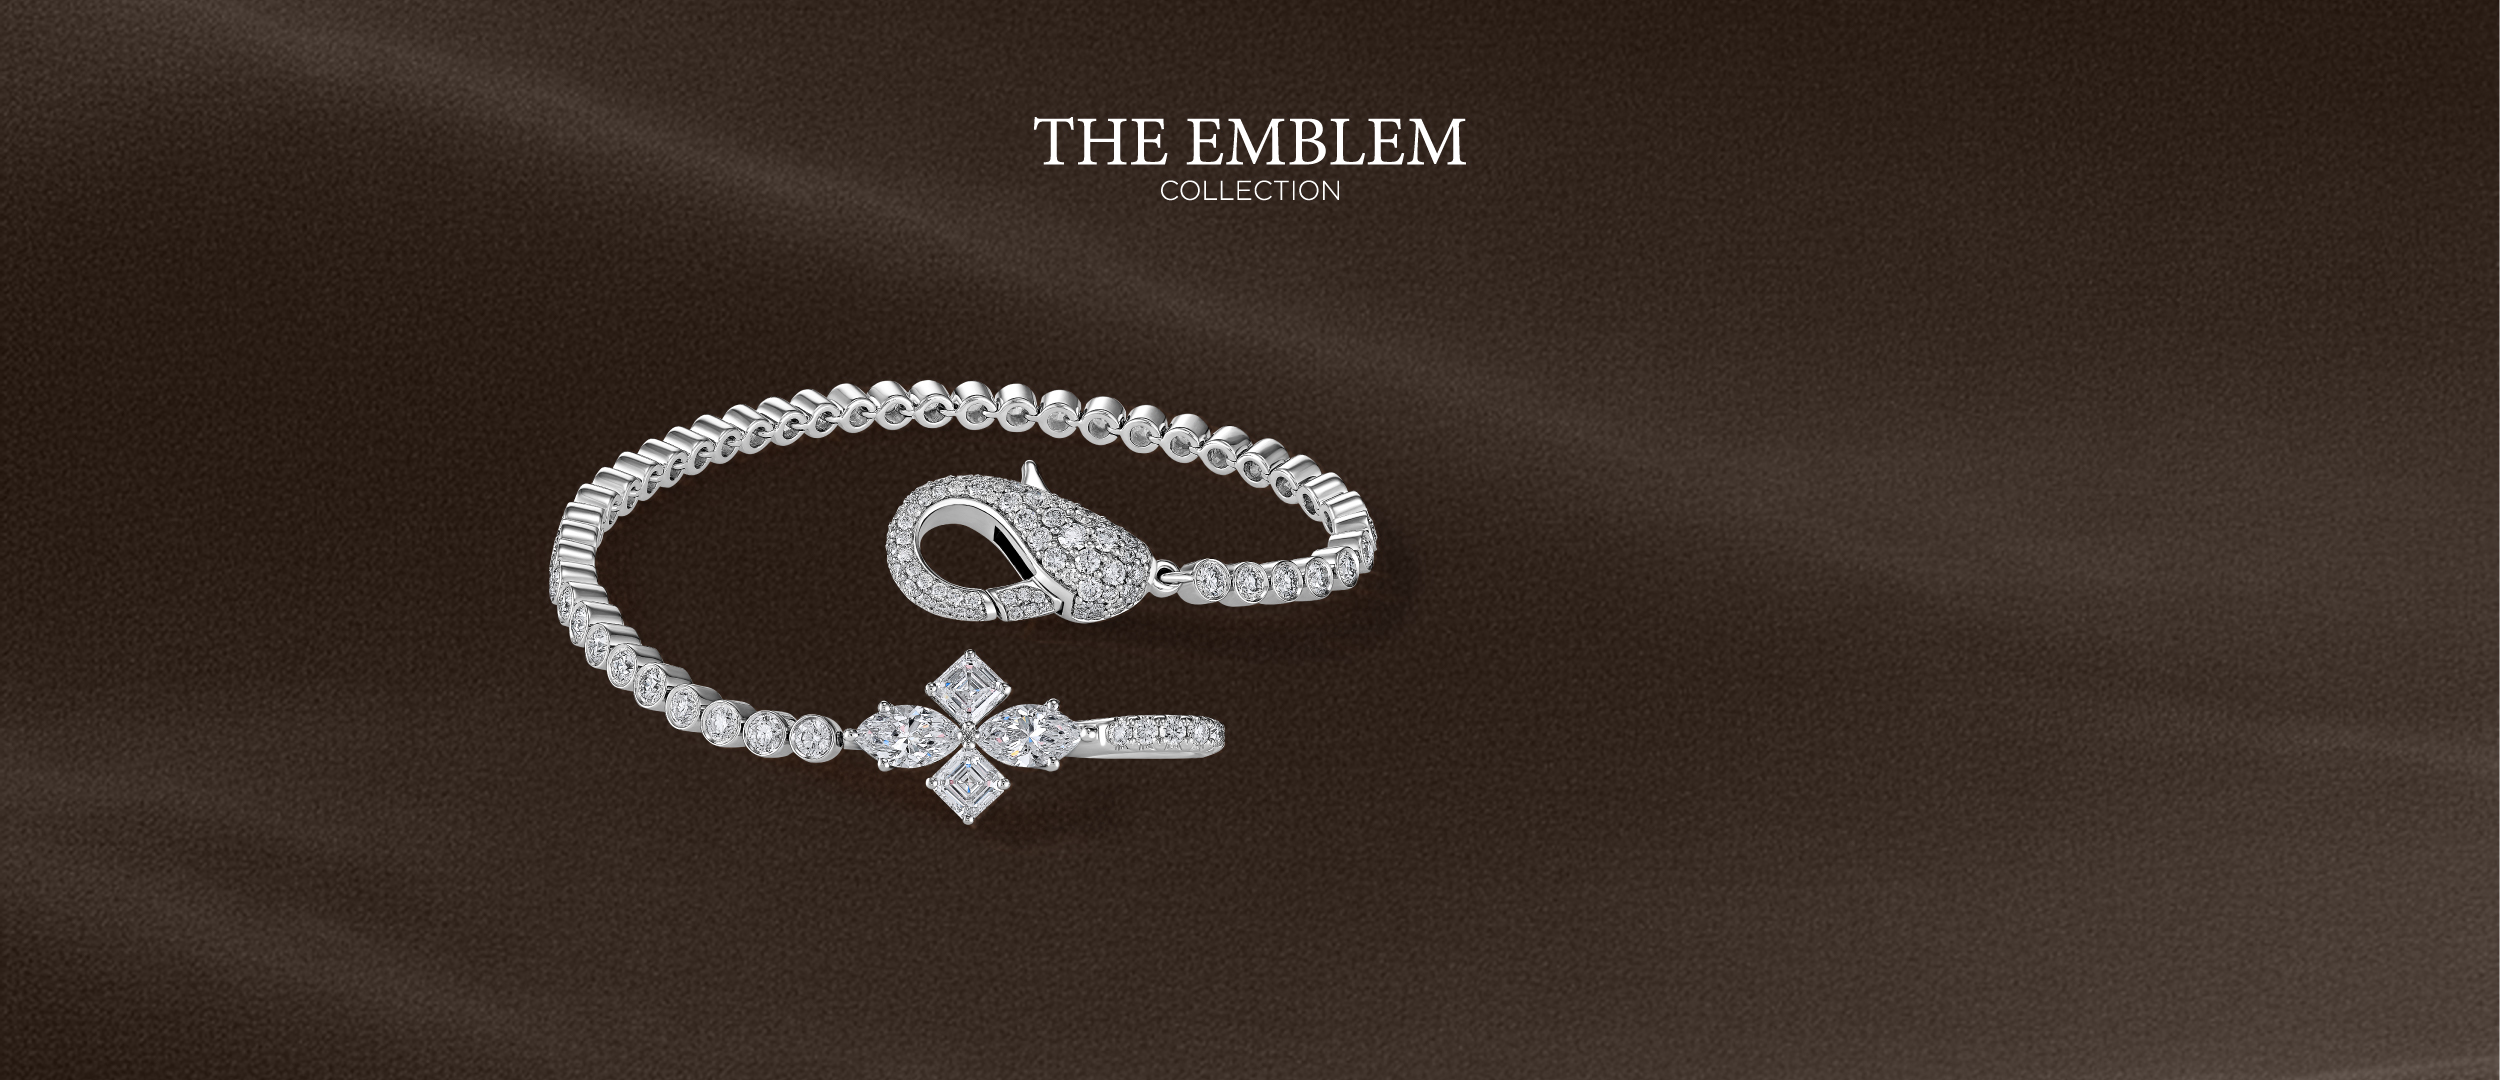
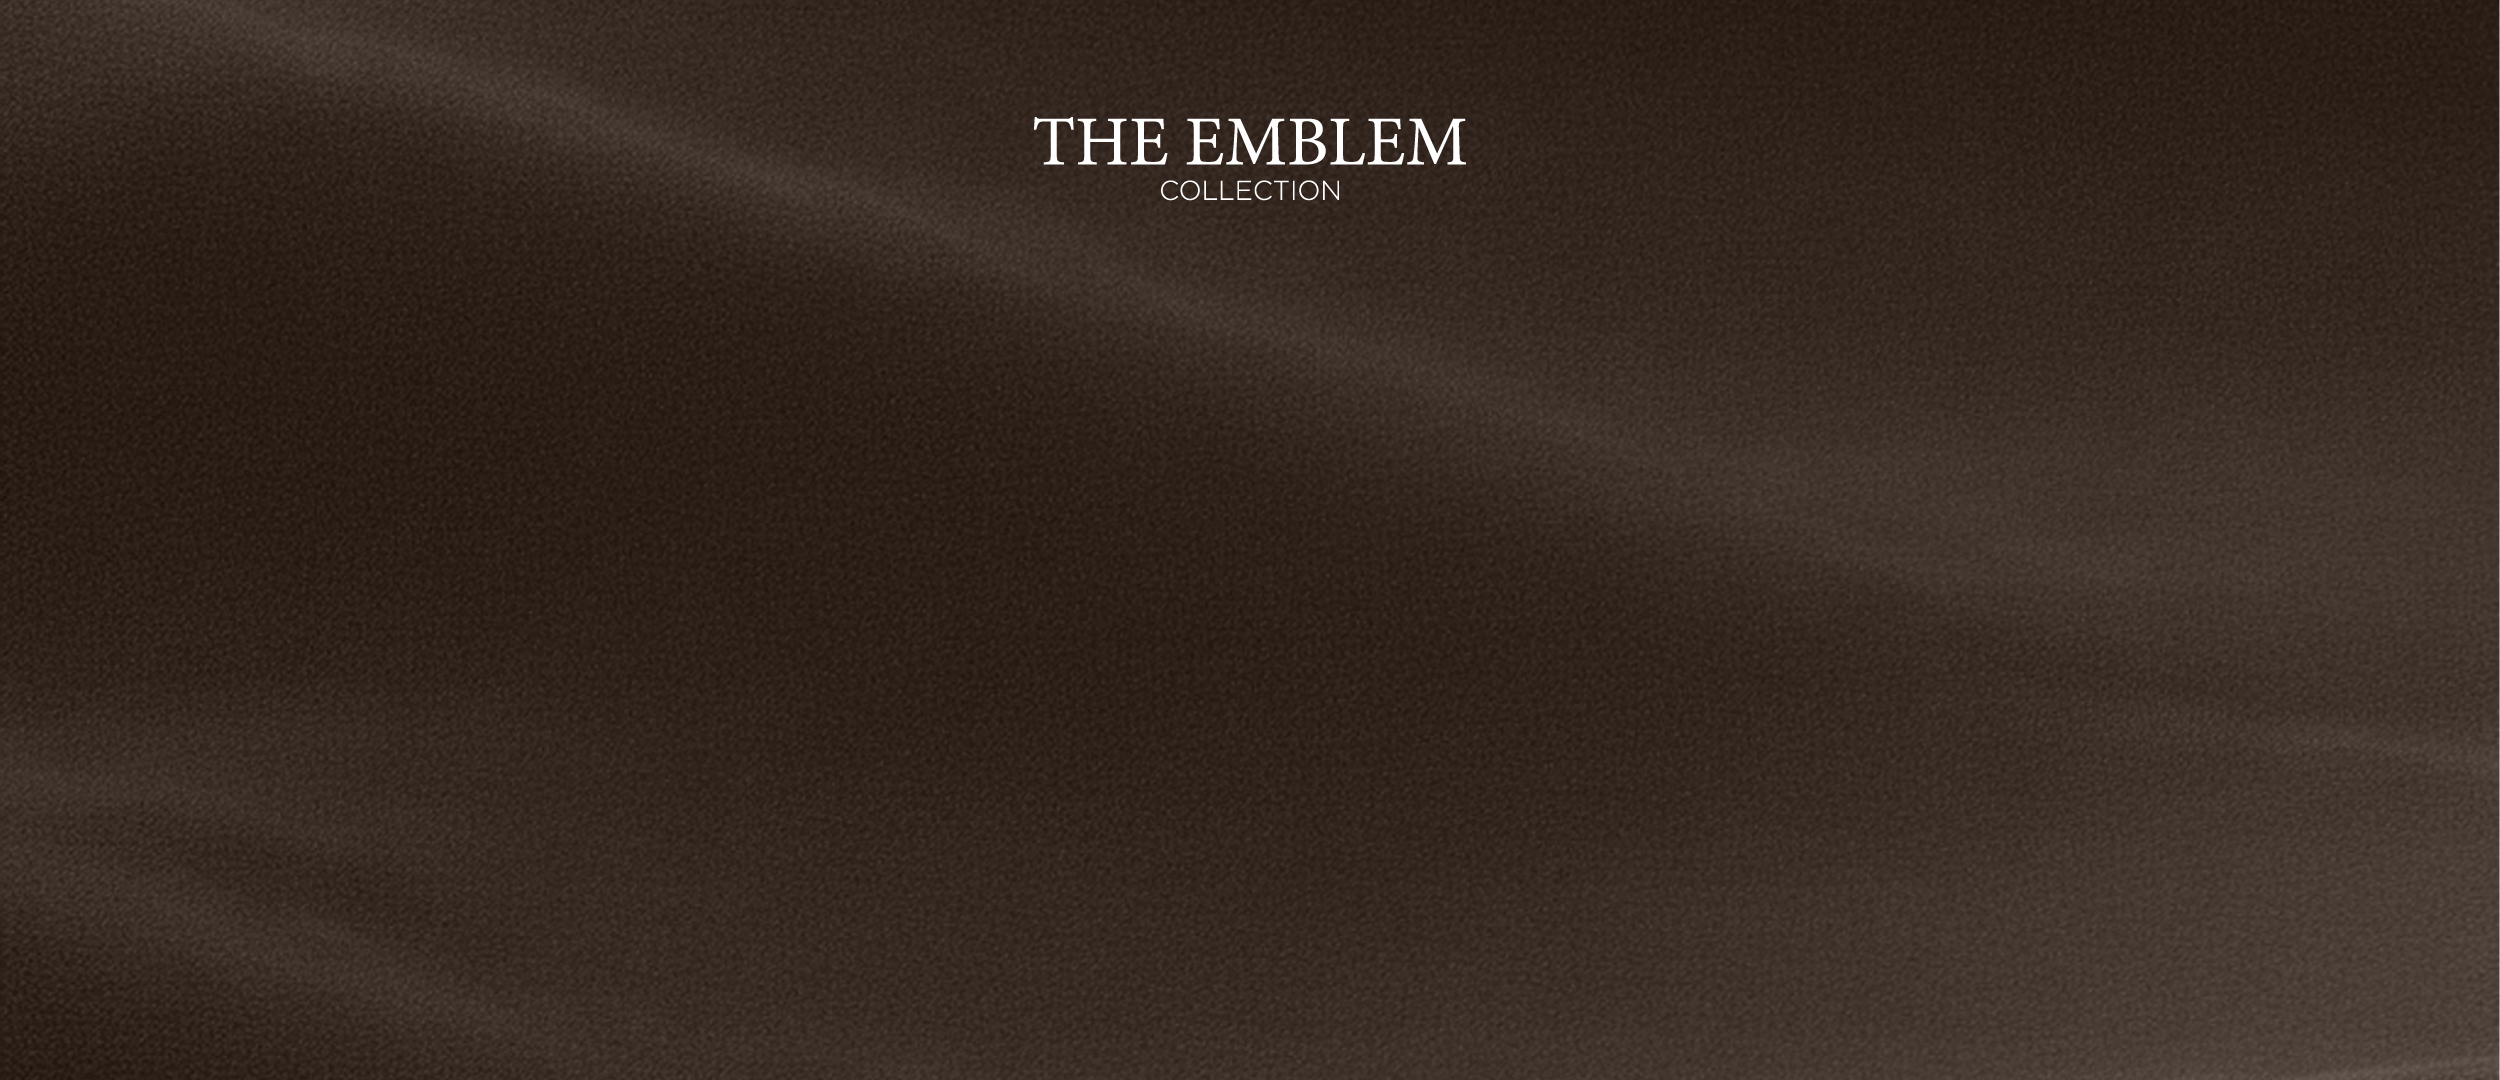
new layout for page 3

Changed region(s): [[0.2184, 0.3361, 0.5616, 0.7639]]

diff --git a/index.html b/index.html
@@ -71,6 +71,25 @@
           alt=""
         />
       </picture>
+      <div class="product-slider" id="productSlider3">
+        <div class="slider-track">
+          <img
+            src="./assets/images/product/product-3-rosegold.png"
+            class="slide active"
+            alt="Product view 1"
+          />
+          <img
+            src="./assets/images/product/product-3-silver.png"
+            class="slide"
+            alt="Product view 2"
+          />
+        </div>
+        <div class="slider-dots">
+          <button class="dot active" data-index="0" aria-label="Slide 1"></button>
+          <button class="dot" data-index="1" aria-label="Slide 2"></button>
+        </div>
+      </div>
+
       <div class="form-container right">
         <picture class="form-image form-image-1 mt-3 mb-0 mb-md-1">
           <source
@@ -267,6 +286,76 @@
 
         form1.addEventListener("submit", handleFormSubmit);
         form2.addEventListener("submit", handleFormSubmit);
+
+        // --- Product Slider (Section 3) ---
+        const sliderEl = document.getElementById("productSlider3");
+        if (sliderEl) {
+          const slides = sliderEl.querySelectorAll(".slide");
+          const dots = sliderEl.querySelectorAll(".dot");
+          let current = 0;
+          let autoTimer = null;
+          const AUTO_DELAY = 4000;
+
+          function goToSlide(index) {
+            slides[current].classList.remove("active");
+            dots[current].classList.remove("active");
+            current = (index + slides.length) % slides.length;
+            slides[current].classList.add("active");
+            dots[current].classList.add("active");
+          }
+
+          function startAuto() {
+            stopAuto();
+            autoTimer = setInterval(() => goToSlide(current + 1), AUTO_DELAY);
+          }
+          function stopAuto() {
+            if (autoTimer) clearInterval(autoTimer);
+          }
+
+          dots.forEach((dot) => {
+            dot.addEventListener("click", () => {
+              goToSlide(parseInt(dot.dataset.index, 10));
+              startAuto();
+            });
+          });
+
+          // Swipe support (touch + mouse drag)
+          let startX = 0;
+          let isDragging = false;
+
+          sliderEl.addEventListener("touchstart", (e) => {
+            startX = e.touches[0].clientX;
+            stopAuto();
+          }, { passive: true });
+
+          sliderEl.addEventListener("touchend", (e) => {
+            const diff = e.changedTouches[0].clientX - startX;
+            if (Math.abs(diff) > 40) {
+              goToSlide(diff < 0 ? current + 1 : current - 1);
+            }
+            startAuto();
+          });
+
+          sliderEl.addEventListener("mousedown", (e) => {
+            startX = e.clientX;
+            isDragging = true;
+            stopAuto();
+          });
+          sliderEl.addEventListener("mouseup", (e) => {
+            if (!isDragging) return;
+            isDragging = false;
+            const diff = e.clientX - startX;
+            if (Math.abs(diff) > 40) {
+              goToSlide(diff < 0 ? current + 1 : current - 1);
+            }
+            startAuto();
+          });
+          sliderEl.addEventListener("mouseleave", () => {
+            isDragging = false;
+          });
+
+          startAuto();
+        }
       });
     </script>
   </body>

diff --git a/assets/css/newstyle.css b/assets/css/newstyle.css
@@ -334,6 +334,80 @@ h2 {
   gap: 8px; /* spacing between box + text */
 }
 
+/* === Product Slider (Section 3, left side) === */
+.product-slider {
+  position: absolute;
+  top: 50%;
+  left: 40%;
+  transform: translate(-50%, -50%);
+  width: 56vh;
+  max-width: 90%;
+  display: flex;
+  flex-direction: column;
+  align-items: center;
+  z-index: 2;
+  cursor: grab;
+  user-select: none;
+}
+.product-slider:active {
+  cursor: grabbing;
+}
+
+.product-slider .slider-track {
+  position: relative;
+  width: 100%;
+  aspect-ratio: 1 / 1;
+}
+
+.product-slider .slide {
+  position: absolute;
+  top: 0;
+  left: 0;
+  width: 100%;
+  height: 100%;
+  object-fit: contain;
+  opacity: 0;
+  transition: opacity 0.5s ease;
+  pointer-events: none;
+}
+
+.product-slider .slide.active {
+  opacity: 1;
+  pointer-events: auto;
+}
+
+.product-slider .slider-dots {
+  display: flex;
+  gap: 10px;
+  margin-top: 20px;
+}
+
+.product-slider .dot {
+  width: 9px;
+  height: 9px;
+  border-radius: 50%;
+  border: 1px solid #fff;
+  background: transparent;
+  padding: 0;
+  cursor: pointer;
+  transition: background 0.3s ease;
+}
+
+.product-slider .dot.active {
+  background: #fff;
+}
+
+@media (max-width: 1023px) {
+  .product-slider {
+    position: relative;
+    top: unset;
+    left: unset;
+    transform: none;
+    width: 70%;
+    margin: 0 auto 20px;
+  }
+}
+
 /* === Section 3 Right-Half Form === */
 .section3 .form-container.right {
   position: absolute;
